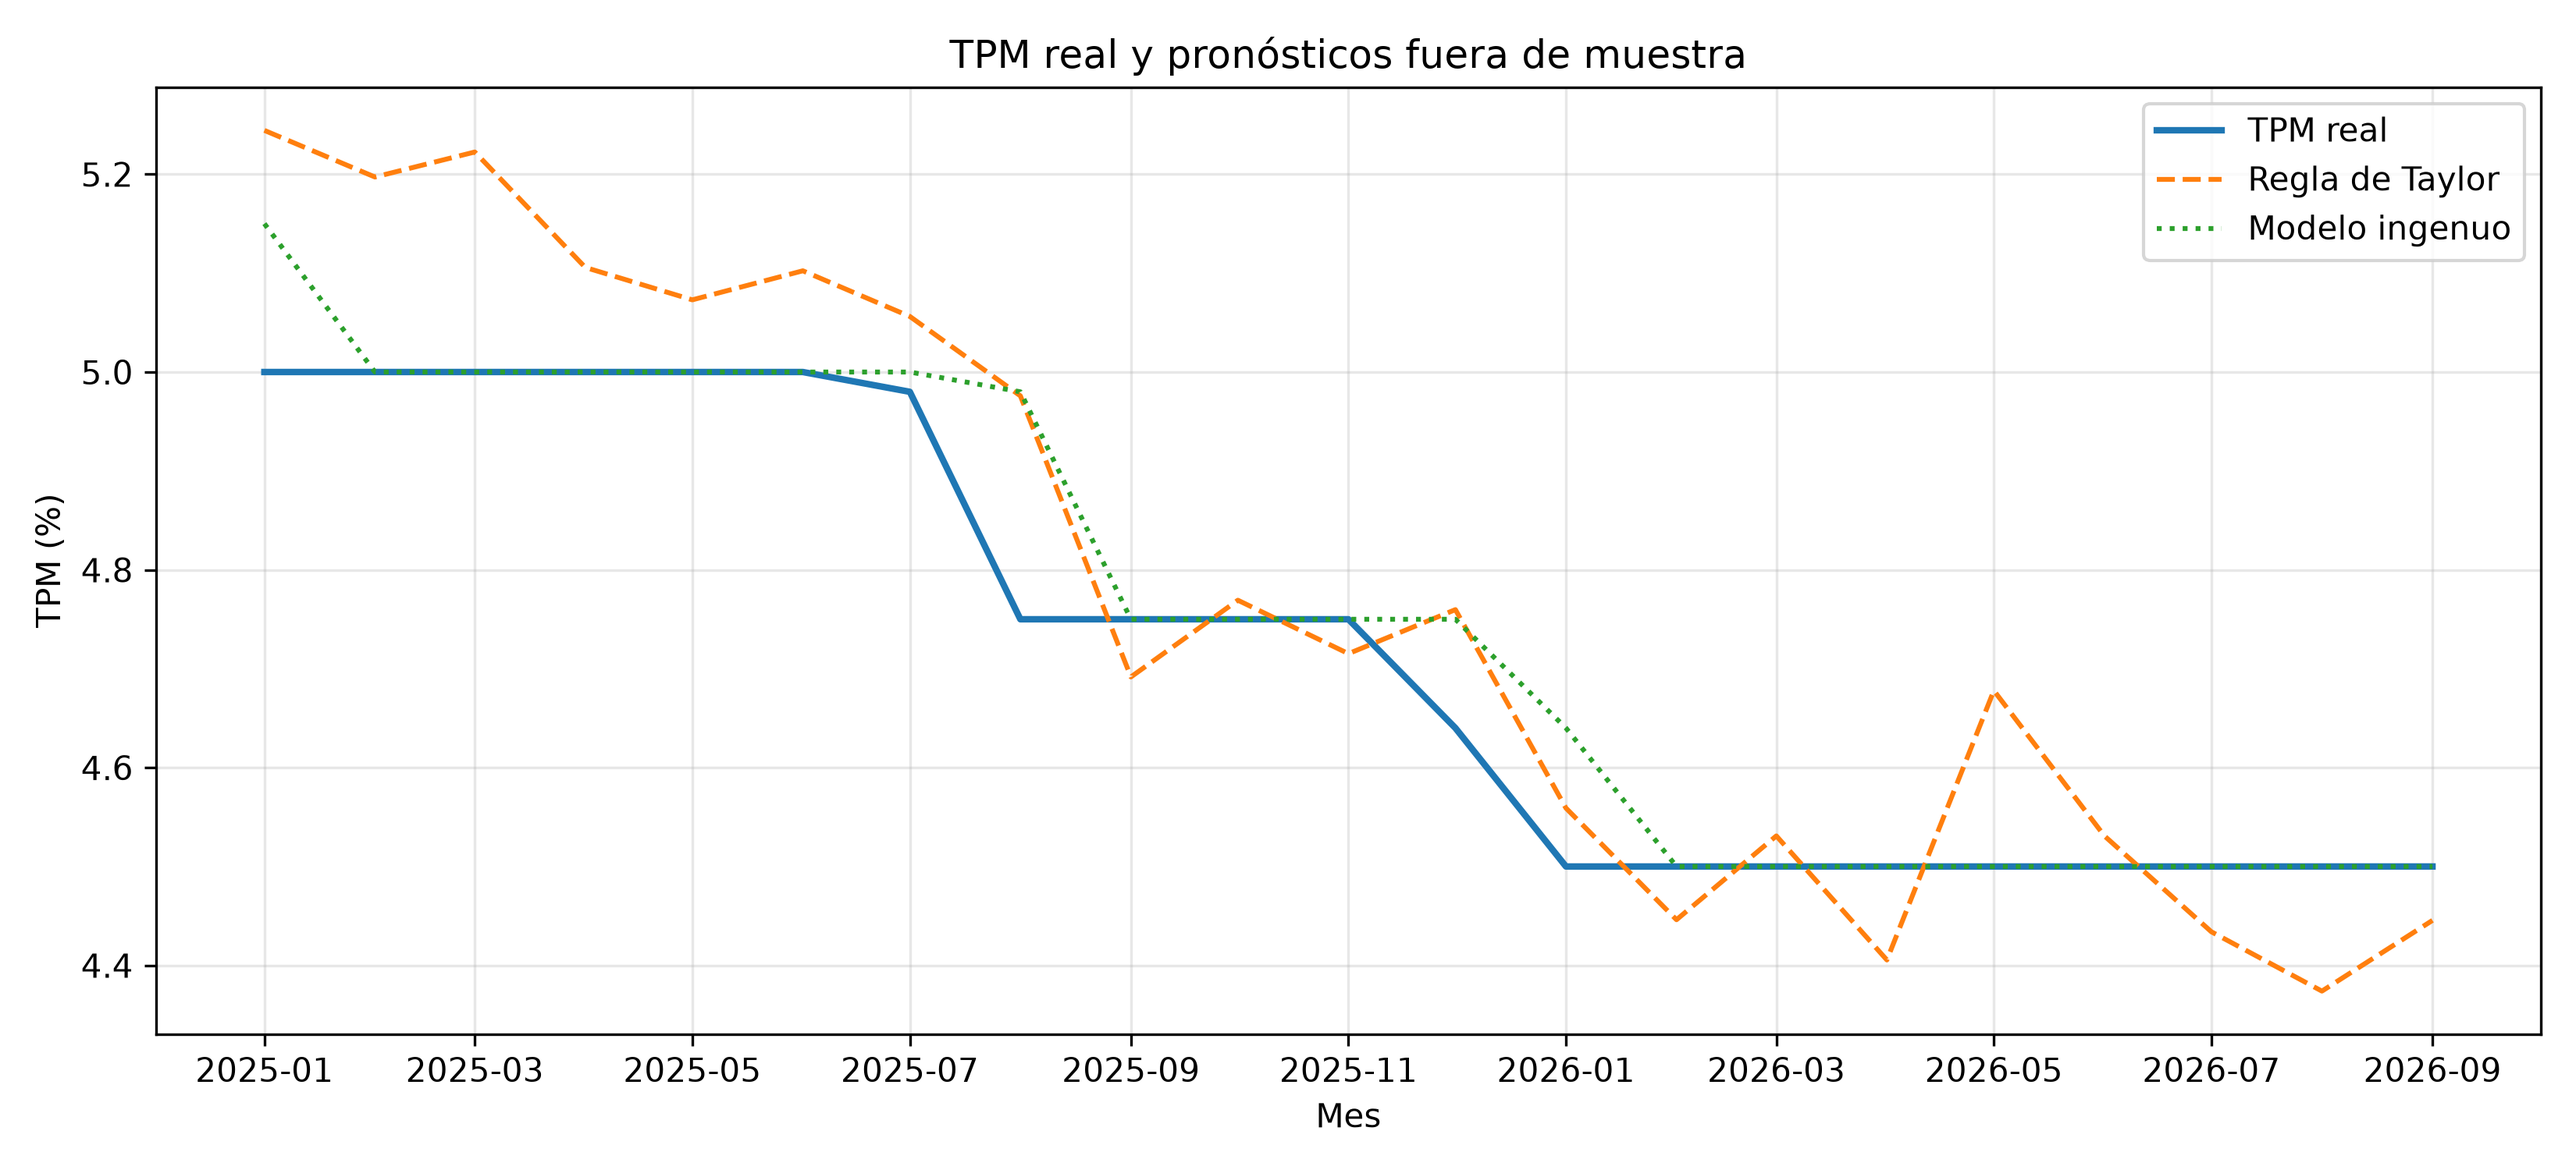
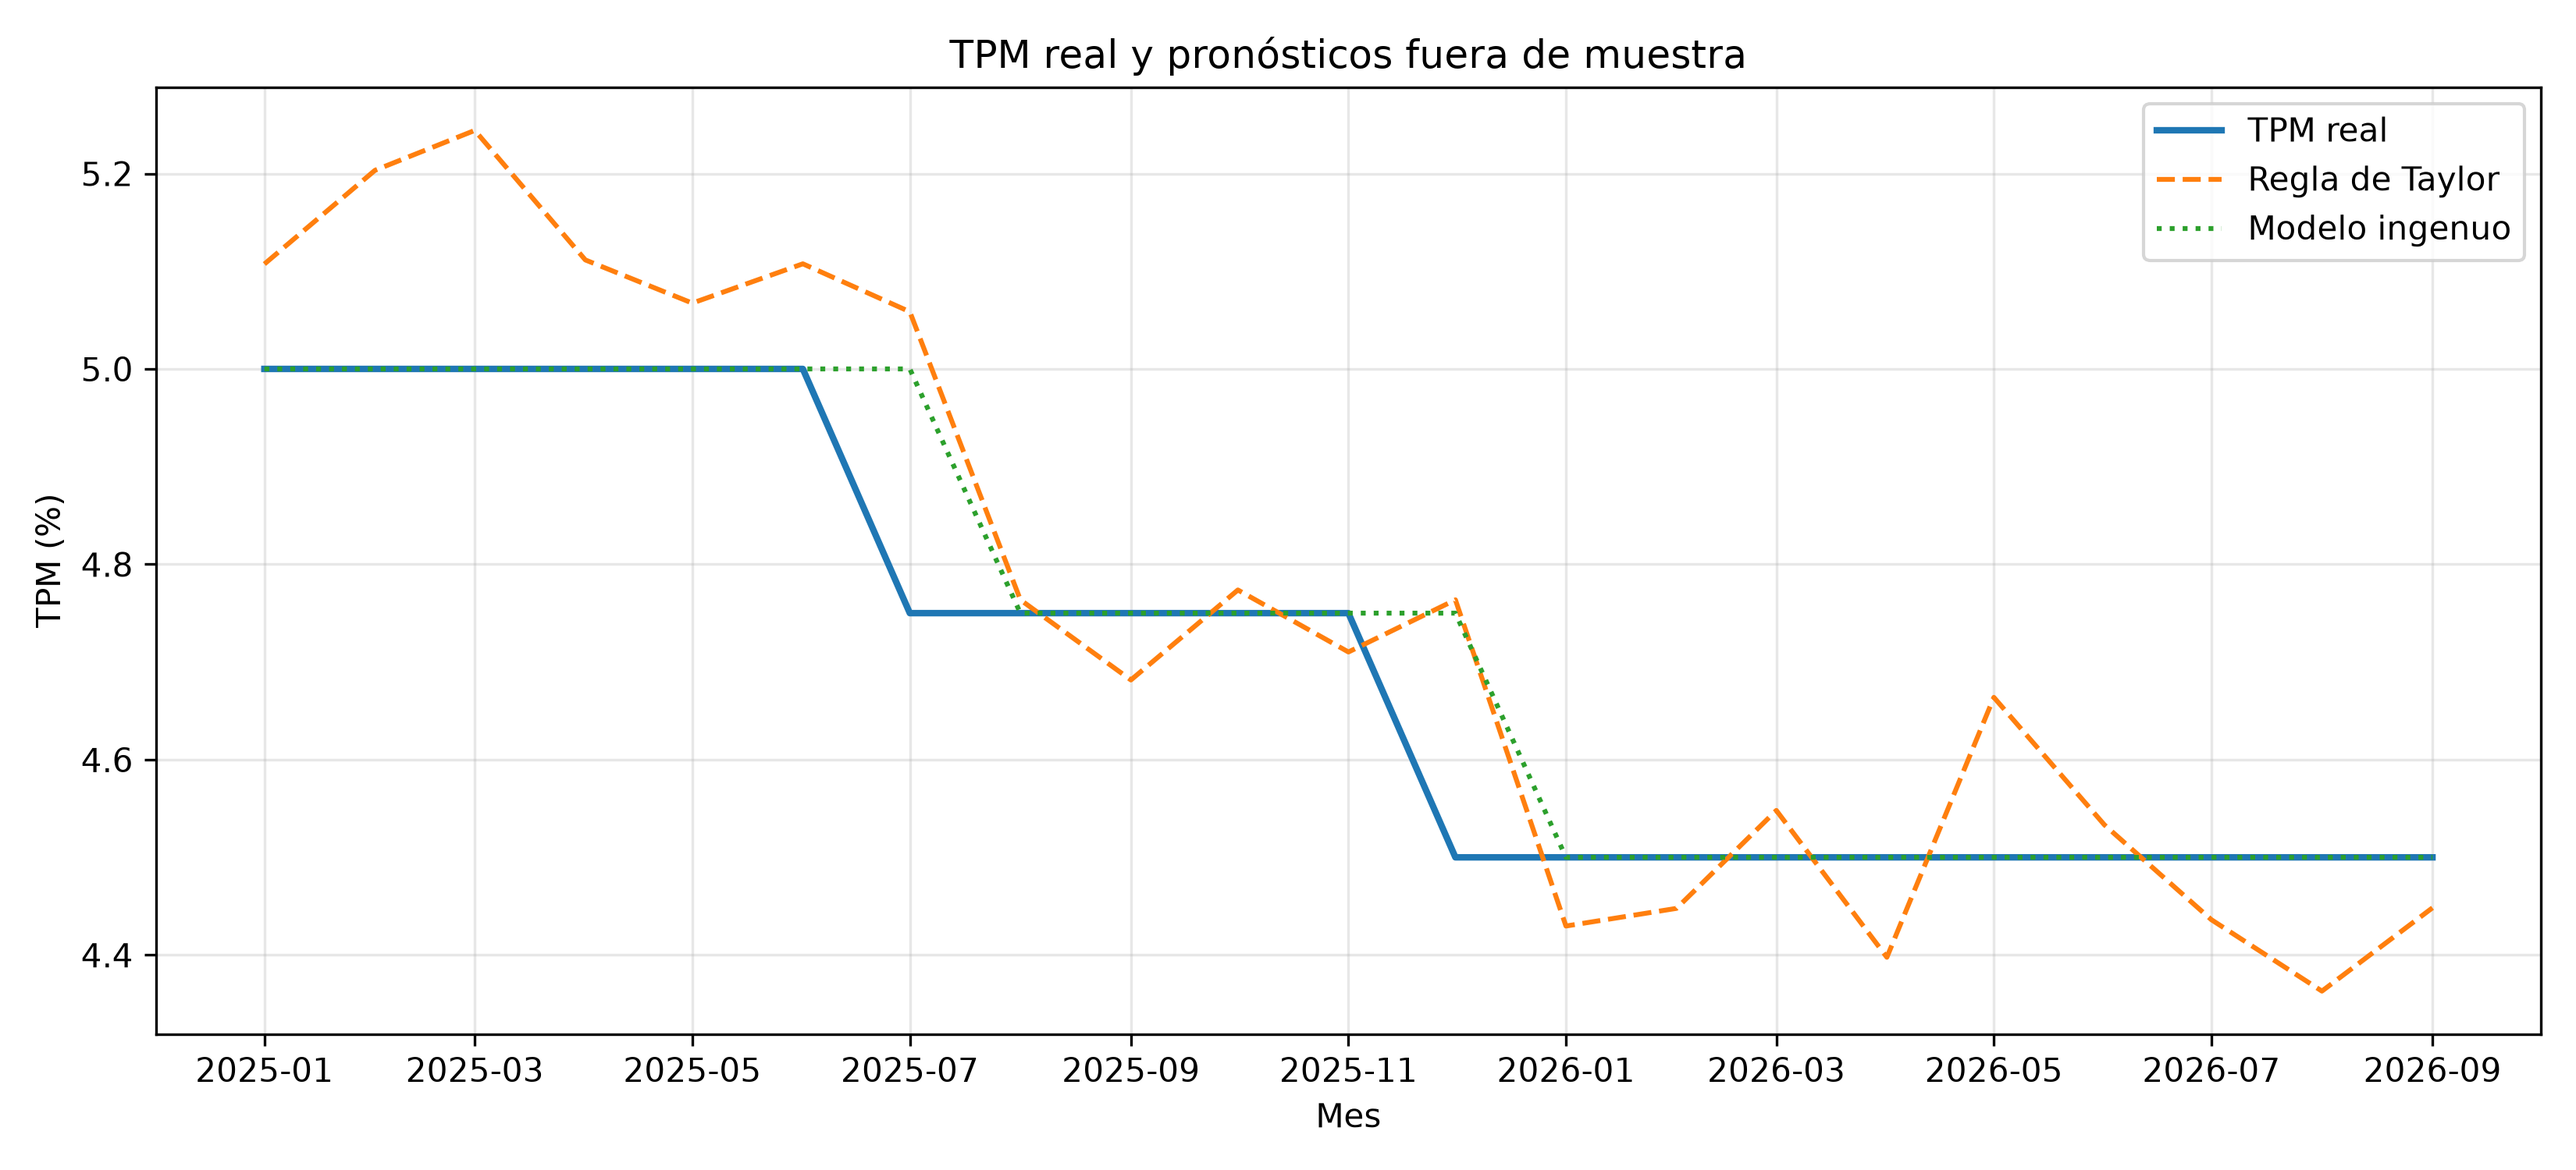
Agrega ejecutar_todo.py y actualiza todos los resultados con la TPM de fin de mes

diff --git a/ejecutar_todo.py b/ejecutar_todo.py
@@ -1,0 +1,66 @@
+"""
+ejecutar_todo.py
+----------------
+Corre el proyecto completo de punta a punta con un solo comando:
+
+    python ejecutar_todo.py
+
+Orden:
+  1. carga.py                   descarga las series (BCCh y FRED) y crea data/base.db
+  2. Relaciones                 correlaciones y rezagos de la TPM
+  3. ARIMA                      selección del modelo y evaluación fuera de muestra
+  4. Regla de Taylor            estimación, evaluación, horizontes y proyección
+  5. Gráficos de Taylor
+  6. Comparación de modelos     tabla única Taylor vs ARIMA vs caminata aleatoria
+
+Cada script se corre como módulo (python -m modelos.xxx) desde la raíz del
+proyecto, así los "from modelos... import ..." funcionan siempre.
+Si un paso falla, se detiene y muestra cuál fue: los pasos siguientes dependen
+de los anteriores.
+
+Opción: python ejecutar_todo.py --sin-descarga
+    Omite carga.py y usa la base ya existente (útil si no hay internet o
+    si la base ya está creada).
+"""
+
+import subprocess
+import sys
+import time
+from pathlib import Path
+
+RAIZ = Path(__file__).resolve().parent
+
+PASOS = [
+    ("Descarga de datos y creación de la base", ["carga.py"]),
+    ("Correlaciones y rezagos",                  ["-m", "modelos.correlaciones_tpm"]),
+    ("Selección del ARIMA",                      ["-m", "modelos.arima_tpm"]),
+    ("Evaluación fuera de muestra del ARIMA",    ["-m", "modelos.evaluacion_arima"]),
+    ("Regla de Taylor: evaluación",              ["-m", "modelos.evaluacion_taylor"]),
+    ("Regla de Taylor: validación temporal",     ["-m", "modelos.validacion_temporal"]),
+    ("Regla de Taylor: horizontes 6-12-24",      ["-m", "modelos.evaluacion_horizontes"]),
+    ("Regla de Taylor: proyección a 24 meses",   ["-m", "modelos.proyeccion_taylor"]),
+    ("Gráfico de comparación de Taylor",         ["-m", "modelos.grafico_taylor"]),
+    ("Gráfico de proyección de Taylor",          ["-m", "modelos.grafico_proyeccion_taylor"]),
+    ("Comparación de modelos",                   ["-m", "modelos.comparacion_modelos"]),
+]
+
+
+def main():
+    pasos = PASOS[1:] if "--sin-descarga" in sys.argv else PASOS
+    if not (RAIZ / "data" / "base.db").exists() and pasos is not PASOS:
+        sys.exit("No existe data/base.db: corre primero sin --sin-descarga.")
+
+    inicio = time.time()
+    for numero, (nombre, argumentos) in enumerate(pasos, start=1):
+        print(f"\n{'=' * 70}\n[{numero}/{len(pasos)}] {nombre}\n{'=' * 70}")
+        resultado = subprocess.run([sys.executable, *argumentos], cwd=RAIZ)
+        if resultado.returncode != 0:
+            sys.exit(f"\n[ERROR] Falló el paso {numero}: {nombre}. Revisa el mensaje de arriba.")
+
+    minutos = (time.time() - inicio) / 60
+    print(f"\n[OK] Proyecto completo ejecutado en {minutos:.1f} minutos. "
+          "Resultados en hito_3/resultados y gráficos en hito_3/graficos.")
+
+
+if __name__ == "__main__":
+    main()
